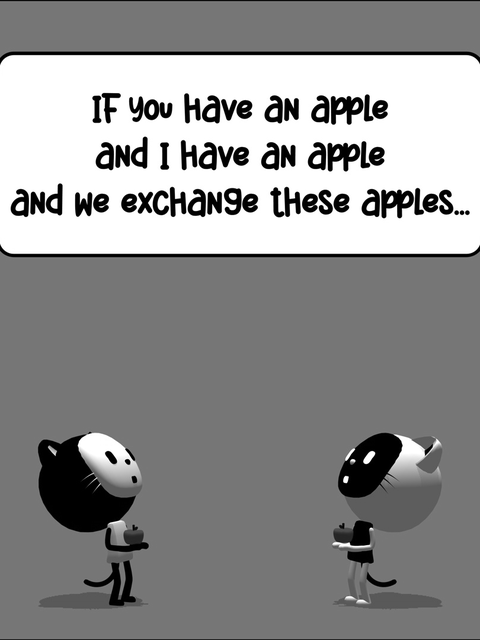
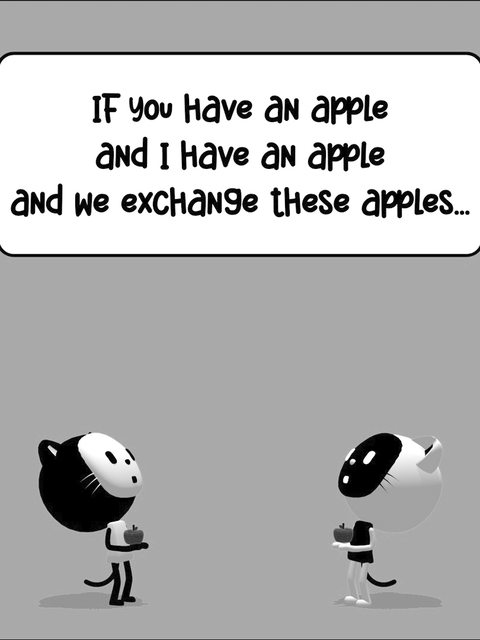
BD cases: box colours as Raphael sees the images
The JPEGs carry a linear colour profile: targets are now converted to sRGB
through it, and the walls use the colours Raphael showed (#cab22a,
#376293).

Claude-Session: https://claude.ai/code/session_017rH57V7zFbv82sLvL6Yzpb

diff --git a/src/apple/apple-extras.ts b/src/apple/apple-extras.ts
@@ -2,4 +2,4 @@ import appleBinUrl from '../assets/apple/apple.bin'
 import {registerBdCase} from './bd-case'
 
 // Case 1 of the BD, baked from Apple_GLB3.c4d; target and wall colour = References/Apple_GLB2.jpg.
-registerBdCase('Apple Extras', 'cible_apple', appleBinUrl, '#a77400')
+registerBdCase('Apple Extras', 'cible_apple', appleBinUrl, '#cab22a')

diff --git a/src/apple/idea-extras.ts b/src/apple/idea-extras.ts
@@ -2,4 +2,4 @@ import ideaBinUrl from '../assets/idea/idea.bin'
 import {registerBdCase} from './bd-case'
 
 // Case 2 of the BD, baked from Idea_GLB3.c4d; target and wall colour = References/Idea_GLB3.jpg.
-registerBdCase('Idea Extras', 'cible_idea', ideaBinUrl, '#001f4e')
+registerBdCase('Idea Extras', 'cible_idea', ideaBinUrl, '#376293')
